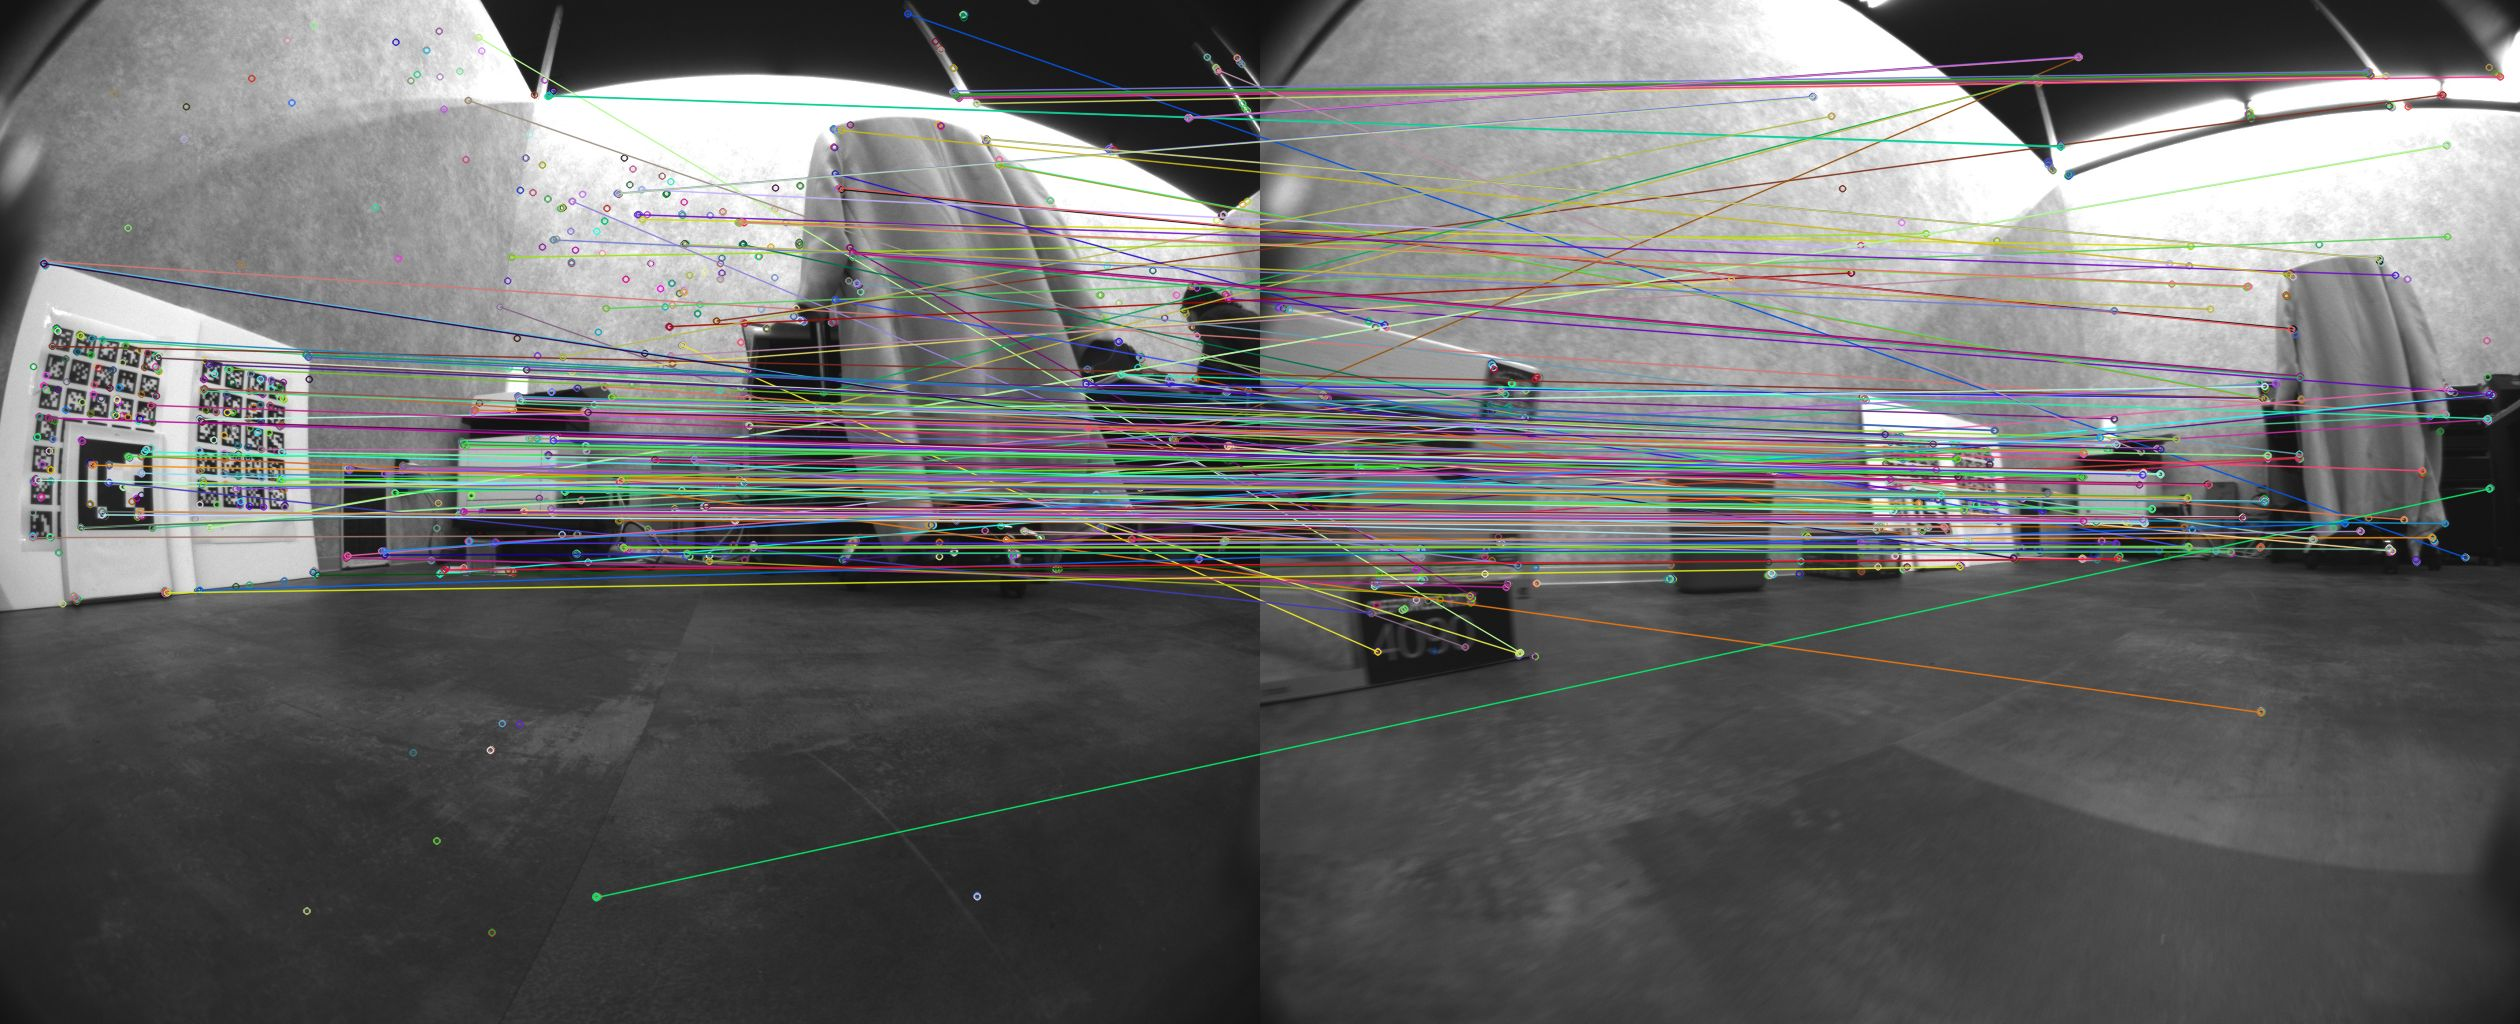
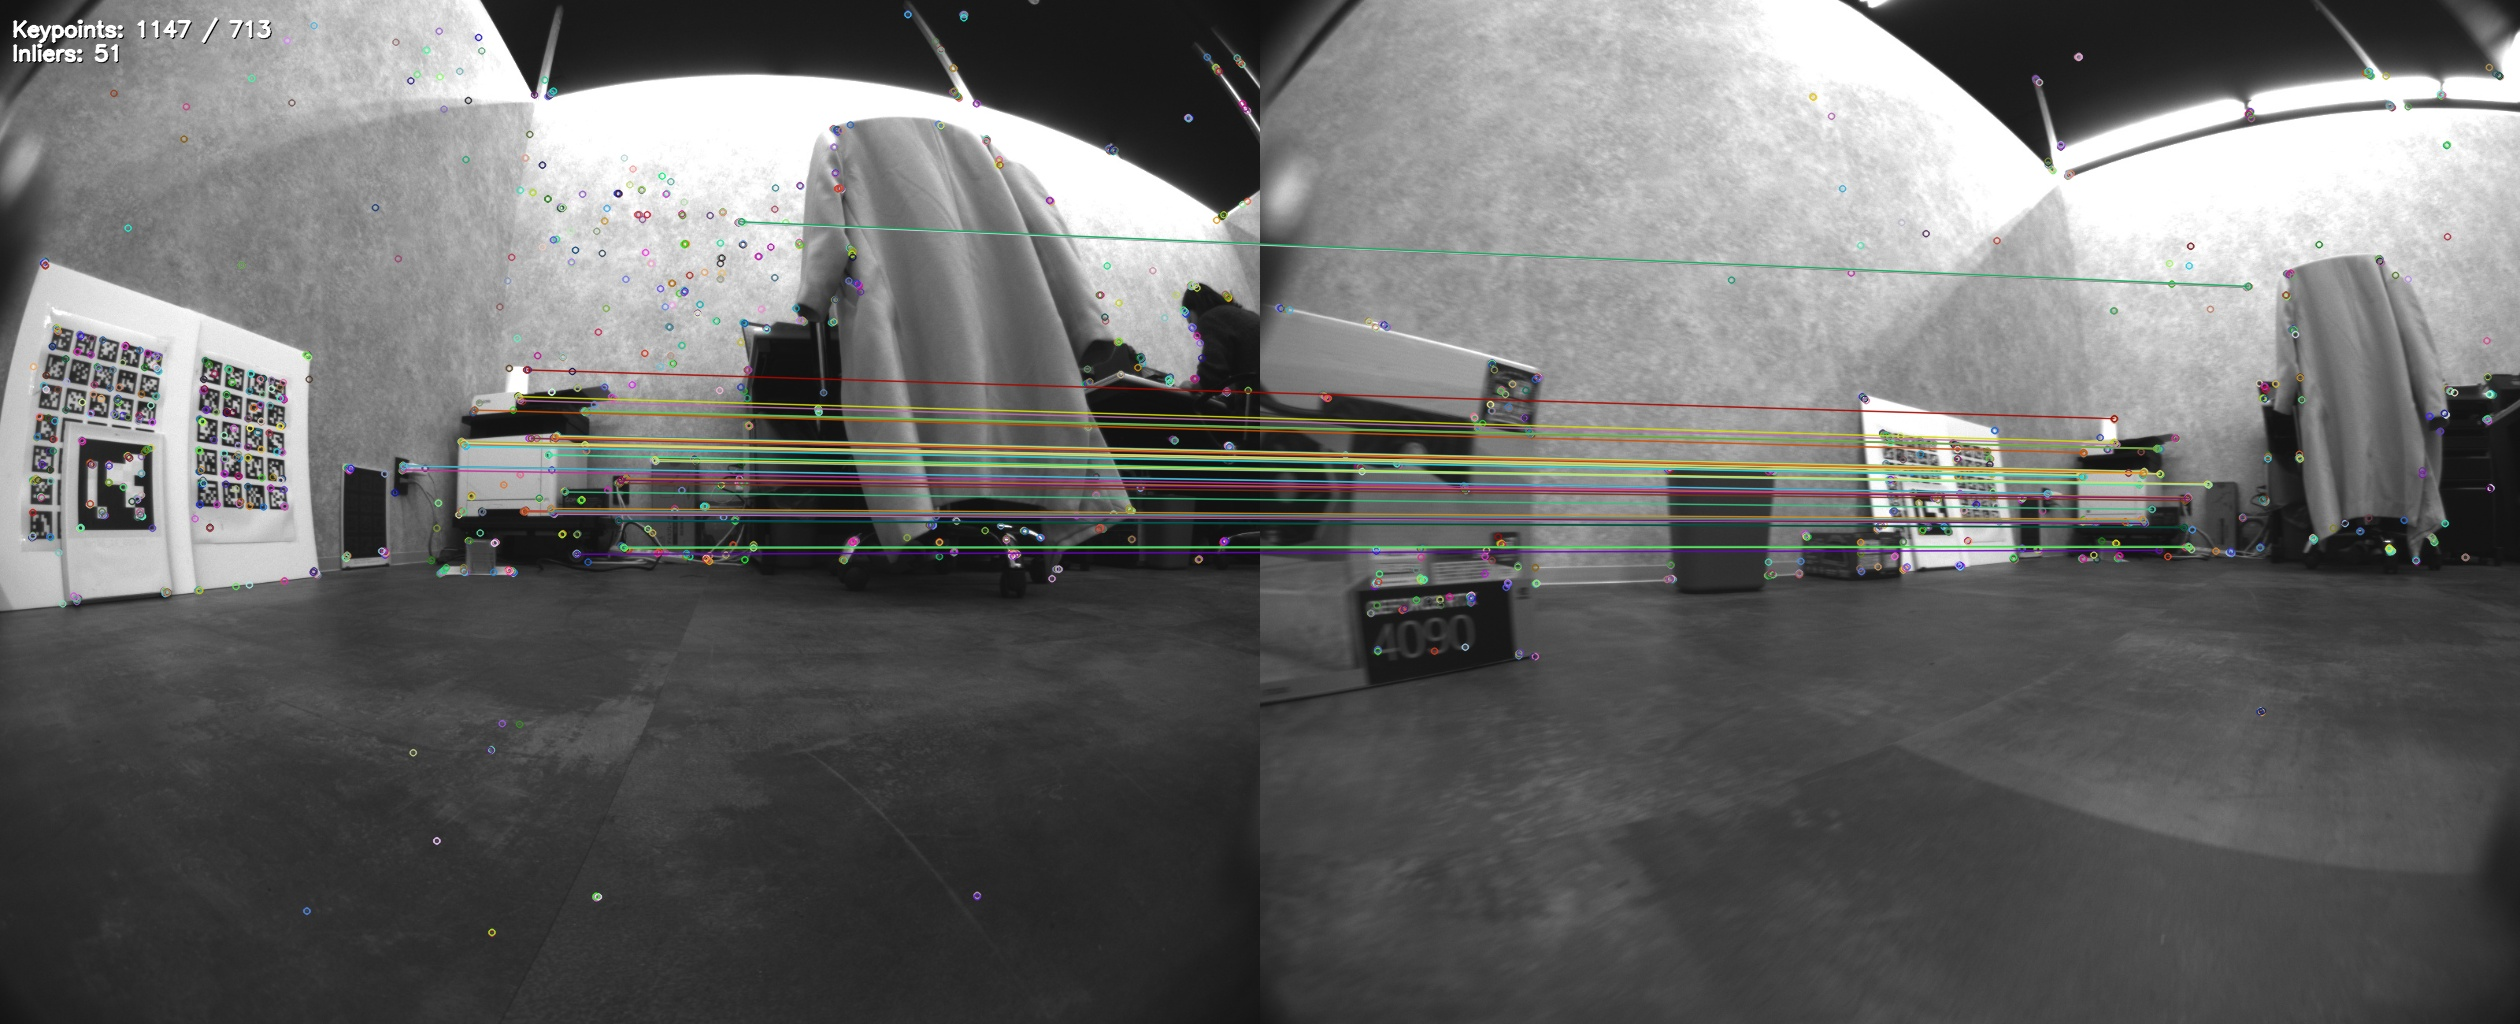
Update results

diff --git a/RESULTS.md b/RESULTS.md
@@ -2,10 +2,10 @@
 ## 1707121165.511_cam0 vs 1707121169.811_cam0
 |Feature Type|Image|
 |:--:|:--:|
-|ORB|![ORB_1707121165.511_cam0_vs_1707121169.811_cam0_matches.jpg](./images/output/ORB_1707121165.511_cam0_vs_1707121169.811_cam0_matches.jpg)|
-|Spherical ORB|![SphericalORB_1707121165.511_cam0_vs_1707121169.811_cam0_matches.jpg](./images/output/SphericalORB_1707121165.511_cam0_vs_1707121169.811_cam0_matches.jpg)|
-|AKAZE|![AKAZE_1707121165.511_cam0_vs_1707121169.811_cam0_matches.jpg](./images/output/AKAZE_1707121165.511_cam0_vs_1707121169.811_cam0_matches.jpg)|
-|Spherical AKAZE|![ SphericalAKAZE_1707121165.511_cam0_vs_1707121169.811_cam0_matches.jpg](./images/output/SphericalAKAZE_1707121165.511_cam0_vs_1707121169.811_cam0_matches.jpg)|
+|ORB256|![ORB256_1707121165.511_cam0_vs_1707121169.811_cam0_matches.jpg](./images/output/ORB256_1707121165.511_cam0_vs_1707121169.811_cam0_matches.jpg)|
+|Spherical ORB256|![SphericalORB256_1707121165.511_cam0_vs_1707121169.811_cam0_matches.jpg](./images/output/SphericalORB256_1707121165.511_cam0_vs_1707121169.811_cam0_matches.jpg)|
+|AKAZE256|![AKAZE256_1707121165.511_cam0_vs_1707121169.811_cam0_matches.jpg](./images/output/AKAZE256_1707121165.511_cam0_vs_1707121169.811_cam0_matches.jpg)|
+|Spherical AKAZE256|![ SphericalAKAZE256_1707121165.511_cam0_vs_1707121169.811_cam0_matches.jpg](./images/output/SphericalAKAZE256_1707121165.511_cam0_vs_1707121169.811_cam0_matches.jpg)|
 |BAD256|![ BAD256_1707121165.511_cam0_vs_1707121169.811_cam0_matches.jpg](./images/output/BAD256_1707121165.511_cam0_vs_1707121169.811_cam0_matches.jpg)|
 |Spherical BAD256|![ SphericalBAD256_1707121165.511_cam0_vs_1707121169.811_cam0_matches.jpg](./images/output/SphericalBAD256_1707121165.511_cam0_vs_1707121169.811_cam0_matches.jpg)|
 |BAD512|![ BAD512_1707121165.511_cam0_vs_1707121169.811_cam0_matches.jpg](./images/output/BAD512_1707121165.511_cam0_vs_1707121169.811_cam0_matches.jpg)|
